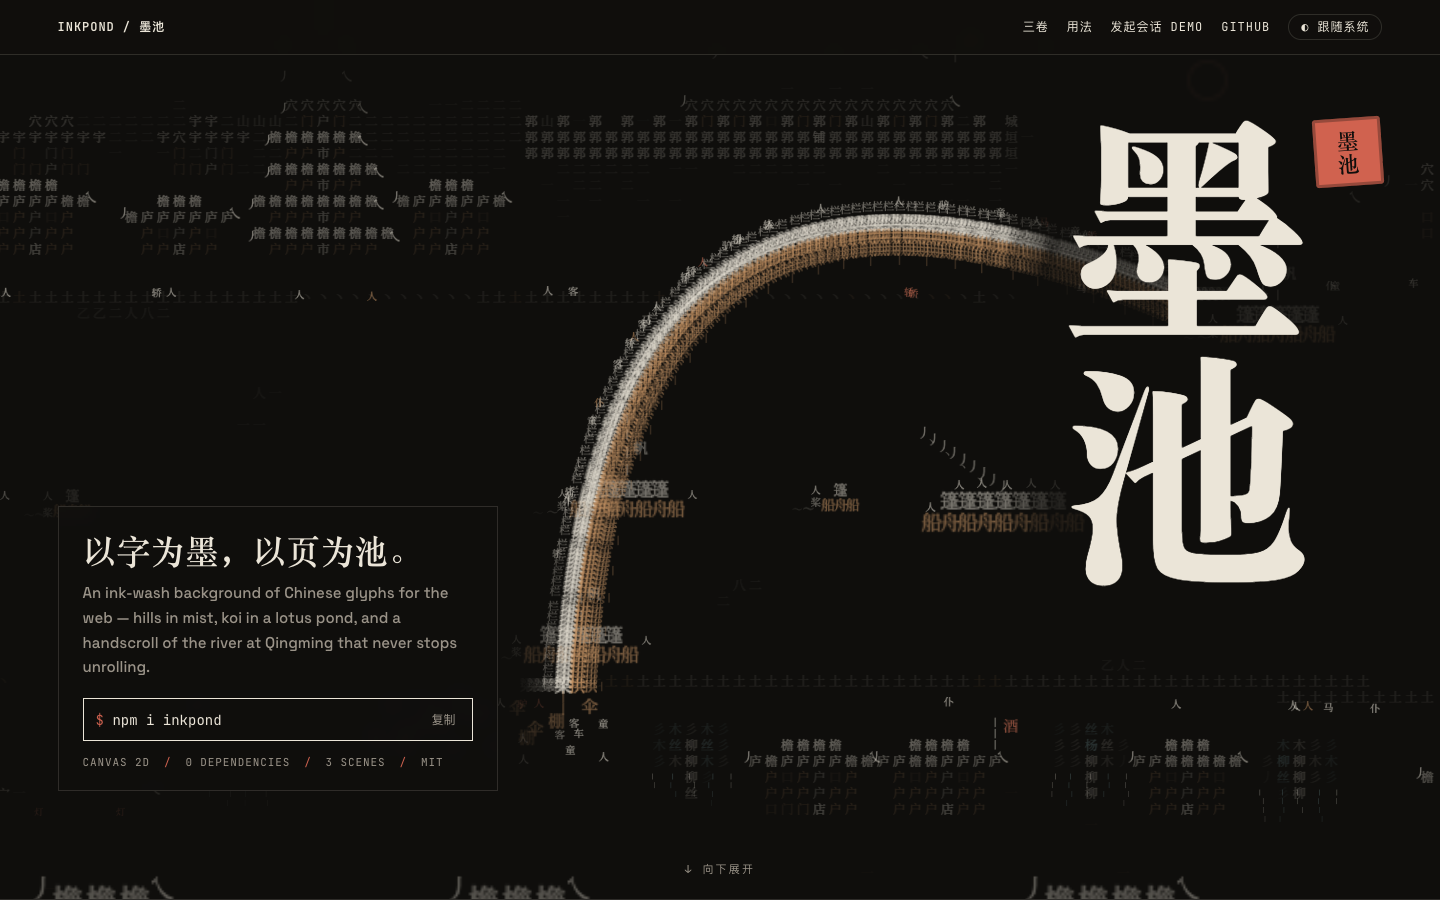
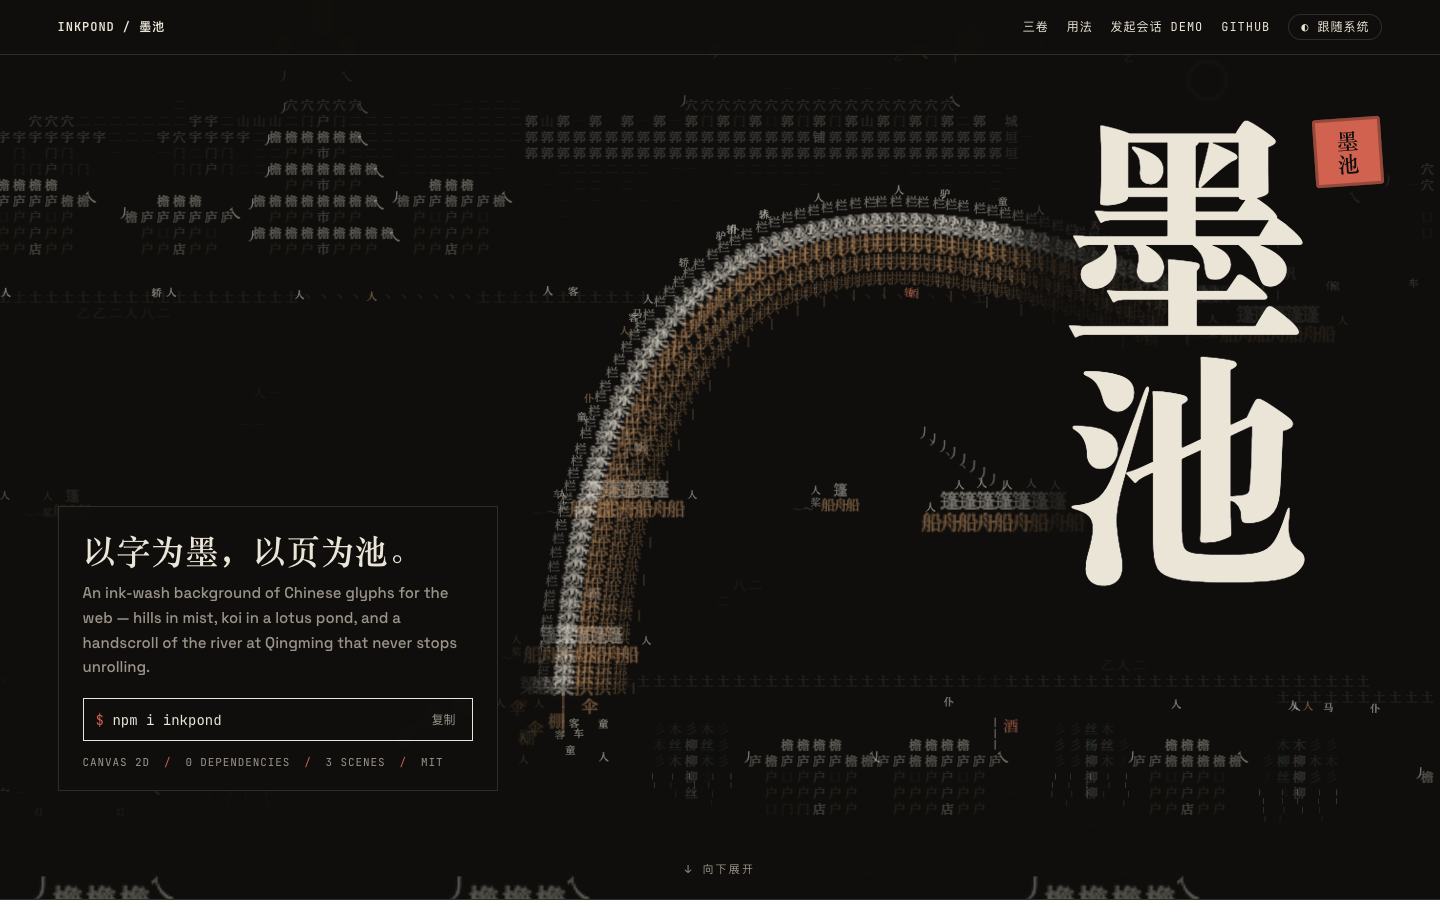
Make the 虹桥 heavier and less dense
Glyphs along the arch are set wider apart (0.82 cell instead of 0.32) and
drawn larger, in four timber courses instead of two, with a heavier
railing, piers and approaches; fewer people crowd the deck. The bridge
reads as a thick band of distinct glyphs rather than a dense line.

Changed region(s): [[0.375, 0.2178, 0.7812, 0.7778], [0.7812, 0.3111, 0.8125, 0.3422]]

diff --git a/src/scenes/qingming.ts b/src/scenes/qingming.ts
@@ -512,32 +512,37 @@ export const createQingming = (
     }
     bridge.length = lengths[samples] ?? 1;
     let k = 0;
-    for (let d = 0, n = 0; d <= bridge.length; d += 0.32, n++) {
+    // Wide-set glyphs, larger, in more courses: a heavy timber band
+    // rather than a dense line.
+    for (let d = 0, n = 0; d <= bridge.length; d += 0.82, n++) {
       while (k < samples && (lengths[k + 1] ?? 0) < d) k++;
       const t = k / samples;
       const p = bridgeAt(t);
       const o = bridgeNormal(t);
       const at = (off: number) =>
         [p.col + o.col * off, p.row + o.row * off] as const;
-      const [rc, rr] = at(1);
-      if (n % 2 === 0) fix(rc, rr, G.rail, 0.85, 0.7, INK);
-      fix(p.col, p.row, G.deck, 1.4, 0.95, INK);
-      const [b1c, b1r] = at(-0.85);
-      fix(b1c, b1r, G.beam, 1.25, 0.85, ZHE);
-      const [b2c, b2r] = at(-1.7);
-      fix(b2c, b2r, G.beam, 1.05, 0.6, ZHE);
-      if (n % 6 === 0) {
-        const [sc, sr] = at(-2.4);
-        fix(sc, sr, G.mast, 0.8, 0.45, ZHE);
+      const [rc, rr] = at(1.3);
+      fix(rc, rr, G.rail, 0.95, 0.7, INK);
+      fix(p.col, p.row, G.deck, 1.7, 0.95, INK);
+      const [b1c, b1r] = at(-1.25);
+      fix(b1c, b1r, G.beam, 1.55, 0.85, ZHE);
+      const [b2c, b2r] = at(-2.45);
+      fix(b2c, b2r, G.beam, 1.35, 0.65, ZHE);
+      const [b3c, b3r] = at(-3.5);
+      fix(b3c, b3r, G.beam, 1.1, 0.45, ZHE);
+      if (n % 3 === 0) {
+        const [sc, sr] = at(-4.4);
+        fix(sc, sr, G.mast, 0.95, 0.4, ZHE);
       }
     }
     for (const [col, row, dir] of [
       [sx, sy, -1],
       [nx, ny, 1],
     ] as const) {
-      for (let r = 1; r < 3; r++) fix(col, row + r * 0.75, G.mast, 1, 0.7, ZHE);
-      for (let j = 1; j <= 5; j++) {
-        fix(col + dir * j * 0.45, row, G.deck, 1.15, 0.85 - j * 0.1, INK);
+      for (let r = 1; r < 4; r++)
+        fix(col, row + r * 0.9, G.mast, 1.3, 0.75, ZHE);
+      for (let j = 1; j <= 3; j++) {
+        fix(col + dir * j * 0.7, row, G.deck, 1.5, 0.85 - j * 0.12, INK);
       }
     }
 
@@ -619,7 +624,7 @@ export const createQingming = (
     walkers = [
       ...people("north", Math.round(W / 5)),
       ...people("south", Math.round(W / 6)),
-      ...people("bridge", 30),
+      ...people("bridge", 20),
     ];
     birds = Array.from({ length: 6 }, (_, k) => ({
       phase: rand() * 6,
@@ -641,7 +646,7 @@ export const createQingming = (
     if (w.path === "bridge") {
       const p = bridgeAt(w.t);
       const o = bridgeNormal(w.t);
-      return { row: p.row + o.row * 1.2, x: colToPx(p.col + o.col * 1.2) };
+      return { row: p.row + o.row * 1.9, x: colToPx(p.col + o.col * 1.9) };
     }
     const col = w.x / cell + 0.5;
     return {

diff --git a/demo/Landing.tsx b/demo/Landing.tsx
@@ -234,7 +234,7 @@ const ScenePanel = ({
 
 const STATS = [
   ["0", "运行时依赖"],
-  ["0.8", "ms / 帧，静水时的脚本开销"],
+  ["0.7", "ms / 帧，静水时的脚本开销"],
   ["1.9", "ms / 帧，满屏搅动的 p95"],
   ["10–21", "KiB，每个场景的字体子集，按需加载"],
   ["30", "秒无操作即停帧，下一次输入再醒"],

diff --git a/README.md b/README.md
@@ -140,7 +140,7 @@ const pondRef = useRef<InkPond | null>(null); // InkPond 类型来自 "inkpond"
   | --- | --- | --- | --- |
   | 山水 | 0.2 / 0.3 ms | 0.9 / 1.8 ms | 0.1 ms |
   | 荷塘 | 0.2 / 0.3 ms | 1.1 / 1.9 ms | < 0.1 ms |
-  | 清明上河 | 0.8 / 1.0 ms | 1.4 / 1.8 ms | 0.2 ms |
+  | 清明上河 | 0.7 / 0.9 ms | 1.3 / 1.7 ms | 0.2 ms |
 
   每帧预算是 8 ms。开销几乎全在贴图调用；关掉 GPU 用 CPU 光栅化时，满屏搅动约 9 ms，这正是起始档位和自动降级要处理的情况。
 - **自动降级**：最近 10 帧的中位数超过 16 ms，或帧间隔超过 60 ms，直接切到静帧；每 60 帧统计一次，p95 超过 8 ms 或帧间隔超过 40 ms，就降一档。降级结果在这台设备上记 30 天。
